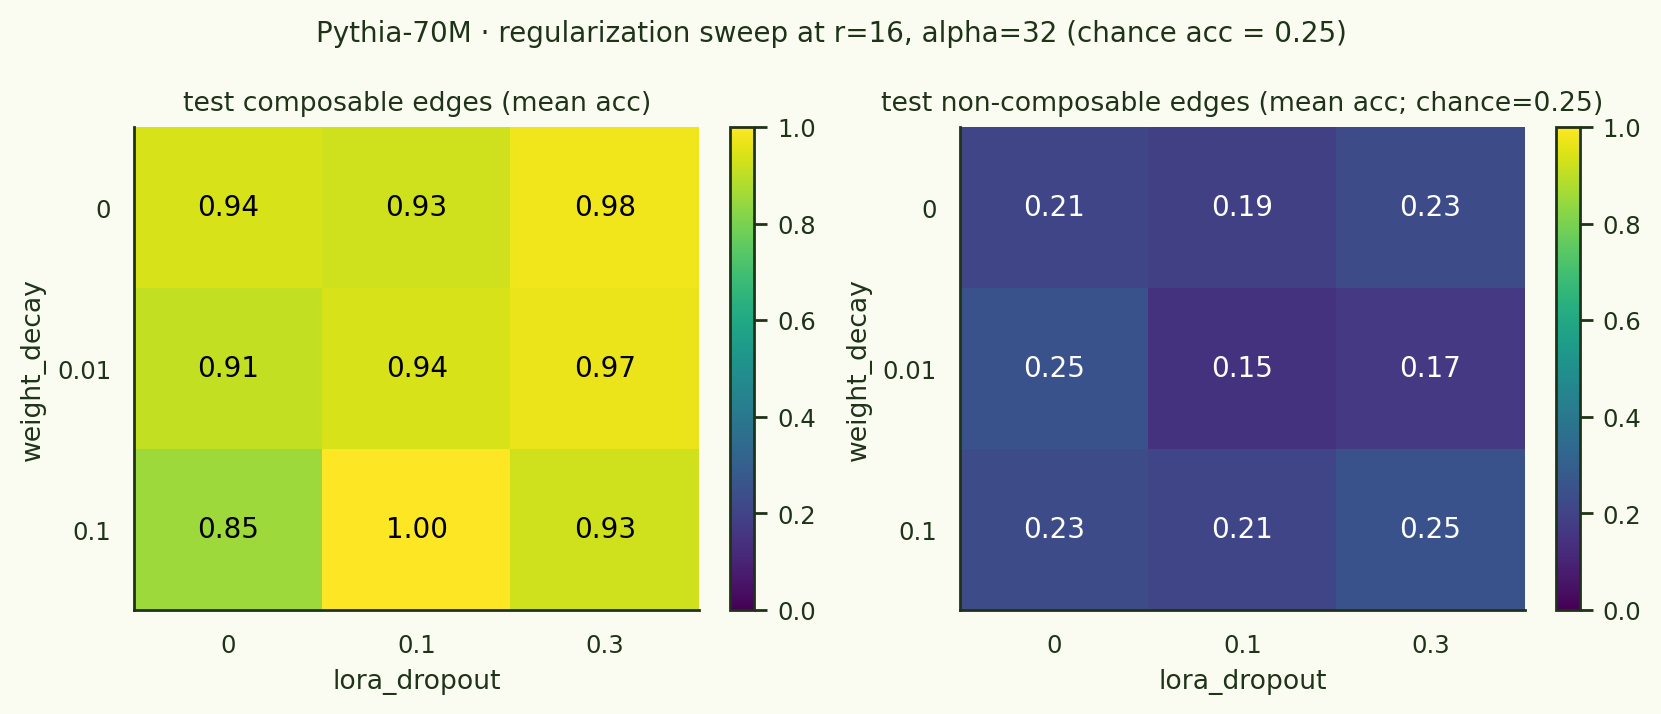
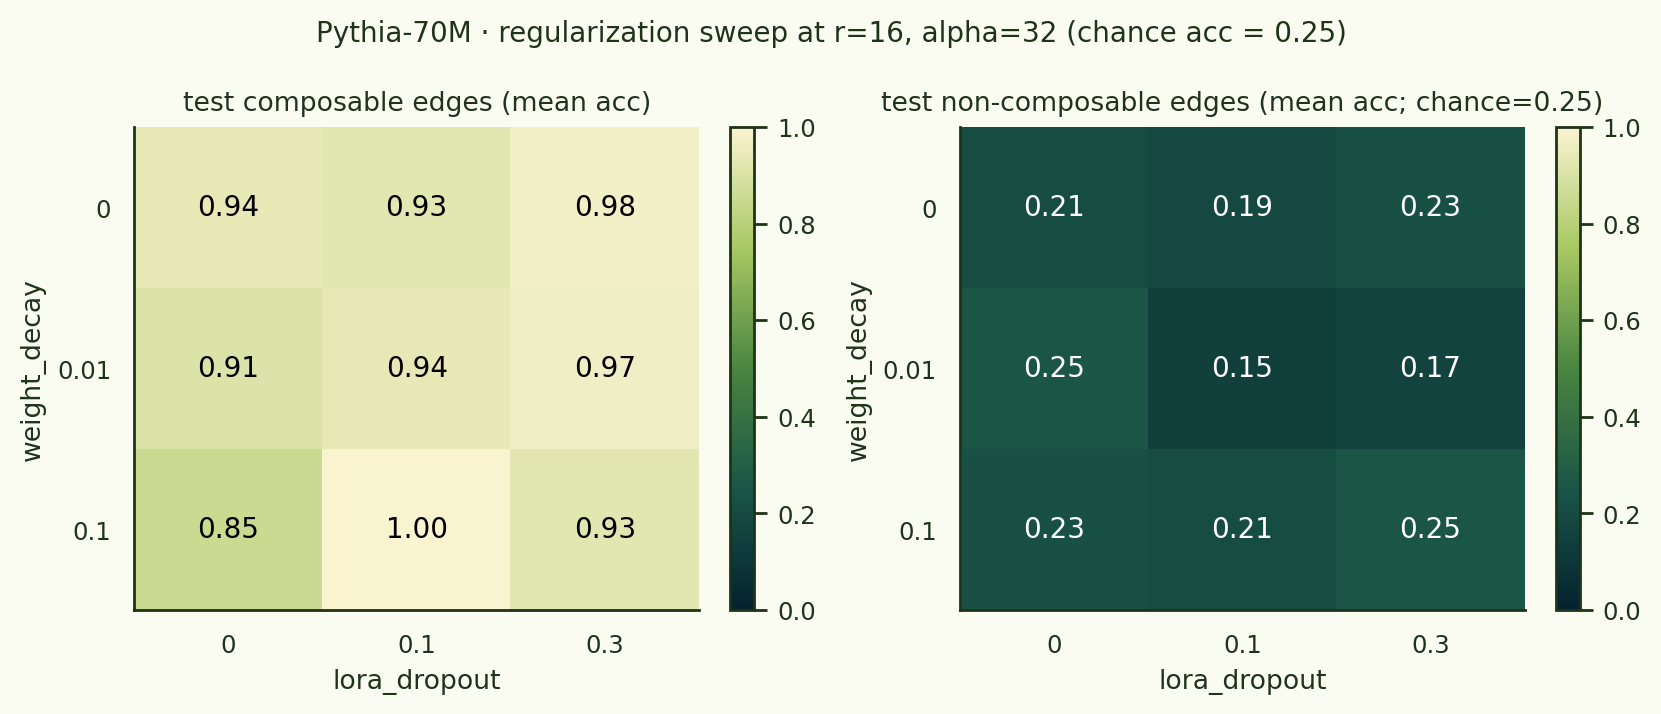
vibe-research: centre .vr-prose within column; switch sweep_reg heatmap to vr_seq

diff --git a/vibe-research/style.css b/vibe-research/style.css
@@ -177,6 +177,18 @@
 .vr-pos { color: var(--h2); font-weight: 600; }   /* matches a positive heading green */
 .vr-neg { color: var(--link); font-weight: 600; } /* the same orange used for warnings */
 
+/* Centre the long-form article body within the 720px column.
+   The parent style.css gives .align-left a max-width of 82% with
+   margin-right:auto only — which "hugs the left" (right behaviour on
+   the main page where it pairs with a centred abstract block). For
+   long-form vibe-research articles the prose reads better centred
+   within the column, so the .vr-prose wrapper opts back in to
+   left+right auto margins. */
+.align-left.vr-prose {
+  margin-left:  auto;
+  margin-right: auto;
+}
+
 /* Math-y inline atoms — italic variables get the same weight as
    surrounding text, and sub/sup don't disrupt line height. */
 .vr-prose i, .vr-fig figcaption i { font-style: italic; }
